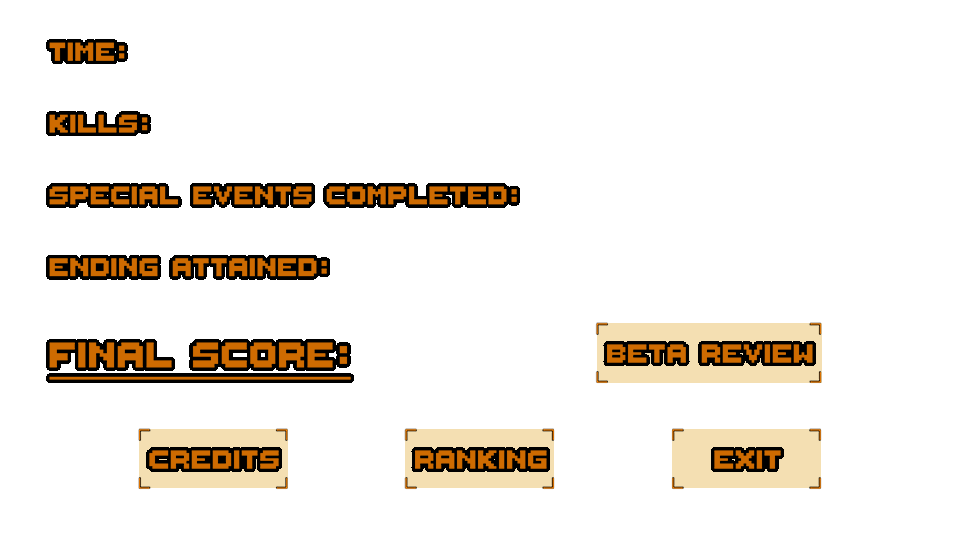
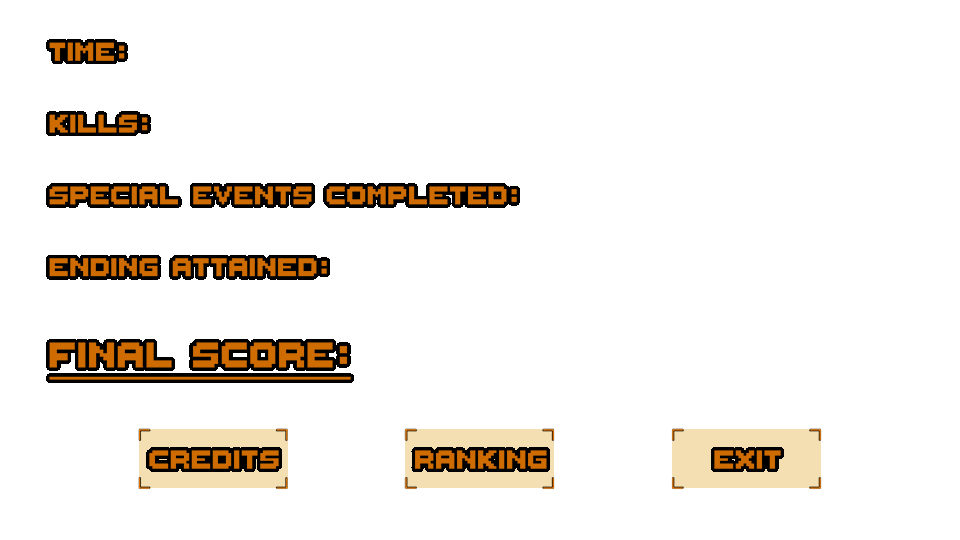
FIX Confusion Movil?PC

Changed region(s): [[0.5938, 0.5926, 0.875, 0.7111]]

diff --git a/src/Scenes/SceneLoading.js b/src/Scenes/SceneLoading.js
@@ -10,7 +10,7 @@ export default class SceneLoading extends Phaser.Scene {
     //IMAGES, SPRITES, SPRITESHEETS
 
     //MENUS
-    this.load.image('menuBETABackground', 'assets/ilustracionBETA.png');
+    //this.load.image('menuBETABackground', 'assets/ilustracionBETA.png');
     this.load.image('menuBackground', 'assets/ilustracion.png');
     this.load.image('endBackground', 'assets/HUD/scorescreen_background.png');
     this.load.image('white_rectangle', 'assets/white_rectangle.png');
@@ -20,11 +20,11 @@ export default class SceneLoading extends Phaser.Scene {
 
     //Score menu
     this.load.image('ScoreScreen', 'assets/Score screen menu/Botones Score.png'); //field
-    this.load.image('ScoreScreenReview', 'assets/Score screen menu/Botones Score Review.png'); //field + review
+    //this.load.image('ScoreScreenReview', 'assets/Score screen menu/Botones Score Review.png'); //field + review
     this.load.image('btnExitScore', 'assets/Score screen menu/btnExitScoreMenu.png'); //btn exit
     this.load.image('btnCreditsScore', 'assets/Score screen menu/btnCreditsScoreMenu.png'); //btn credits
     this.load.image('btnRankingScore', 'assets/Score screen menu/btnRankingScoreMenu.png'); //btn ranking
-    this.load.image('btnReviewScore', 'assets/Score screen menu/btnReviewScoreMenu.png'); //btn review
+    //this.load.image('btnReviewScore', 'assets/Score screen menu/btnReviewScoreMenu.png'); //btn review
 
     //Credits menu
     this.load.image('RankingScreen', 'assets/Ranking menu/Botones Ranking.png'); //field

diff --git a/src/PlayerStuff/Player.js b/src/PlayerStuff/Player.js
@@ -128,14 +128,15 @@ export default class Player {
       'right': Phaser.Input.Keyboard.KeyCodes.D,
       'down': Phaser.Input.Keyboard.KeyCodes.S});
 
-      this.wheelCooldown = 125;
+      this.wheelCooldown = 100;
       this.wheelTimerCounter = 0;
       this.wheelWeaponArray = [];
       this.wheelArrayCounter = 0;
       this.scene.input.on('wheel', function(pointer){
         if(this.wheelTimerCounter > this.wheelCooldown){
           this.wheelTimerCounter = 0;
-          this.wheelArrayCounter -= (pointer.deltaY/100);
+          //console.log(pointer.deltaY);
+          this.wheelArrayCounter -= Math.sign(pointer.deltaY);
           if(this.wheelArrayCounter < 0)
             this.wheelArrayCounter = this.wheelWeaponArray.length-1;
           else if(this.wheelArrayCounter > this.wheelWeaponArray.length-1){
@@ -850,7 +851,7 @@ export default class Player {
 
     this.fireCounterHold = 0;
     this.weaponCounter = num;
-    this.fireArm.changeCrosshairSpr(this.weapons[this.weaponCounter].chFrame)
+    this.fireArm.changeCrosshairSpr(this.weapons[this.weaponCounter].chFrame);
 
     if(this.weaponCounter == 8 && this.firingPointer!== undefined && this.firingPointer.isDown){
       this.fireArm.engageLaser();

diff --git a/src/Scenes/SceneMainMenu.js b/src/Scenes/SceneMainMenu.js
@@ -25,7 +25,7 @@ export default class SceneMainMenu extends Phaser.Scene {
     var corners =this.add.image(0,0,'corners').setOrigin(0);
 
     //Background Menu
-    this.add.image(0,0,'menuBETABackground').setOrigin(0).setDepth(-100);
+    this.add.image(0,0,'menuBackground').setOrigin(0).setDepth(-100);
 
     //MM field
     //var MMScreen=this.add.image(0,0,'MMScreen').setOrigin(0,0).setScale(0.25);

diff --git a/src/Scenes/SceneOptionsMM.js b/src/Scenes/SceneOptionsMM.js
@@ -23,7 +23,7 @@ export default class SceneOptionsMM extends Phaser.Scene {
     //Oscurecer background
     const bg = this.add.image(0,0,'white_rectangle').setOrigin(0).setScale(35).setDepth(-100).setAlpha(0.25);
     bg.tint = 0x000000;
-    bg.alpha = 0.7;
+    bg.alpha = 0.5;
 
     //Options field
     //var optionsScreen=this.add.image(0,0,'OptionsScreen').setOrigin(0,0).setScale(0.25);

diff --git a/src/Scenes/SceneCredits.js b/src/Scenes/SceneCredits.js
@@ -21,7 +21,7 @@ export default class SceneCredits extends Phaser.Scene {
     //Oscurecer background
     const bg = this.add.image(0,0,'white_rectangle').setOrigin(0).setScale(35).setDepth(-100).setAlpha(0.25);
     bg.tint = 0x000000;
-    bg.alpha = 0.7;
+    bg.alpha = 0.5;
     
     //Credits field
     var creditsScreen=this.add.image(0,0,'CreditsScreen').setOrigin(0,0).setAlpha(0.8);

diff --git a/src/index.js b/src/index.js
@@ -262,6 +262,10 @@ function mobileTabletChek() {
 
 game.onPC=!mobileTabletChek();
 
+if (game.onPC == undefined) {
+  game.onPC = true;
+}
+
 console.log("onPC:  " +game.onPC);
 
 game.prepareScreen = function(){
